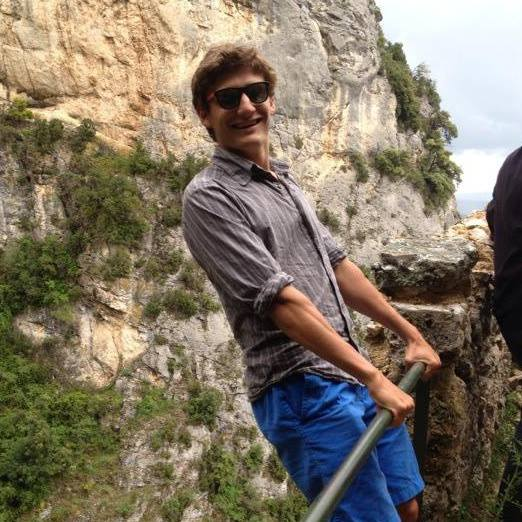
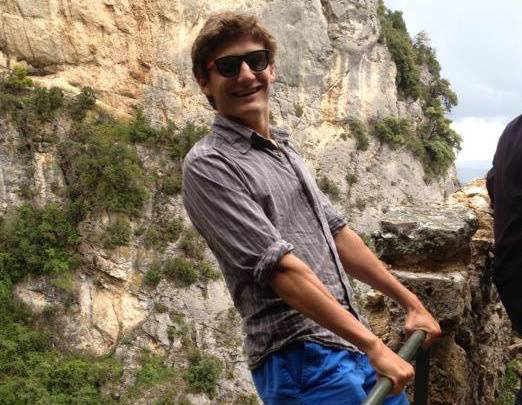
no message

diff --git a/templates/home.html b/templates/home.html
@@ -89,15 +89,15 @@
                         <!-- Wrapper for slides -->
                         <div class="carousel-inner">
                             <div class="item active">
-                                <img class="img-responsive img-small" src="{{ url_for('static', filename='img/france.jpg') }}" alt="">
+                                <img class="img-responsive carousel-img" src="{{ url_for('static', filename='img/france.jpg') }}" alt="">
                             </div>
 
                             <div class="item">
-                                <img class="img-responsive img-small" src="{{ url_for('static', filename='img/row3.jpg') }}" alt="">
+                                <img class="img-responsive carousel-img" src="{{ url_for('static', filename='img/row3.jpg') }}" alt="">
                             </div>
 
                             <div class="item">
-                                <img class="img-responsive img-very-small" src="{{ url_for('static', filename='img/beach.jpg') }}" alt="">
+                                <img class="img-responsive carousel-img" src="{{ url_for('static', filename='img/beach_wide.jpg') }}" alt=""  align="middle">
                             </div>
                         </div>
 
@@ -185,7 +185,7 @@
     <script language="JavaScript" type="text/javascript">
         $(document).ready(function(){
         $('.carousel').carousel({
-            interval: 5000 //changes the speed
+            interval: 5000
         })
     });    
     </script>

diff --git a/templates/contact.html b/templates/contact.html
@@ -93,11 +93,8 @@
                 </div>  ALSO - CHANGED the class just below to col-md-6 instead of md-4 -->
                 
                 <div class="col-md-6">
-                    <p>Phone:
-                        <strong>412-716-6381</strong>
-                    </p>
                     <p>Email:
-                        <strong><a href="mailto:cjw5@princeton.edu">cjw5@princeton.edu</a></strong>
+                        <strong><a href="mailto:cjwawrzonek@gmail.com">cjwawrzonek@gmail.com</a></strong>
                     </p>
                     <p>Address:
                         <strong>312 Dickson Avenue

diff --git a/static/css/custom.css b/static/css/custom.css
@@ -36,6 +36,17 @@ hr {
     border-color: #999999;
 }
 
+.carousel-control {
+    border-radius: 10px;
+}
+
+.carousel-img {
+    border-radius: 10px;
+    height: auto;
+    margin-left: auto;
+    margin-right: auto;
+}
+
 .brand,
 .address-bar {
     display: none;
@@ -65,13 +76,6 @@ hr {
 }
 .img-small {
     max-width: 60%;
-    height: auto;
-    margin-left: auto;
-    margin-right: auto;
-}
-
-.img-very-small{
-    max-width: 40%;
     height: auto;
     margin-left: auto;
     margin-right: auto;

diff --git a/templates/columns.html b/templates/columns.html
@@ -88,7 +88,7 @@
                     <hr>
                 </div>
                 <div class="col-lg-12 text-center">
-                    <img class="img-responsive img-border img-full" src="img/daily.jpg" alt="">
+                    <img class="img-responsive img-border img-full" src="{{ url_for('static', filename='img/daily.jpg') }}" alt="">
                     <h2>
                         <br>
                         <small>Yeah, I write biweekly columns for the Daily Princetonian! </small>
